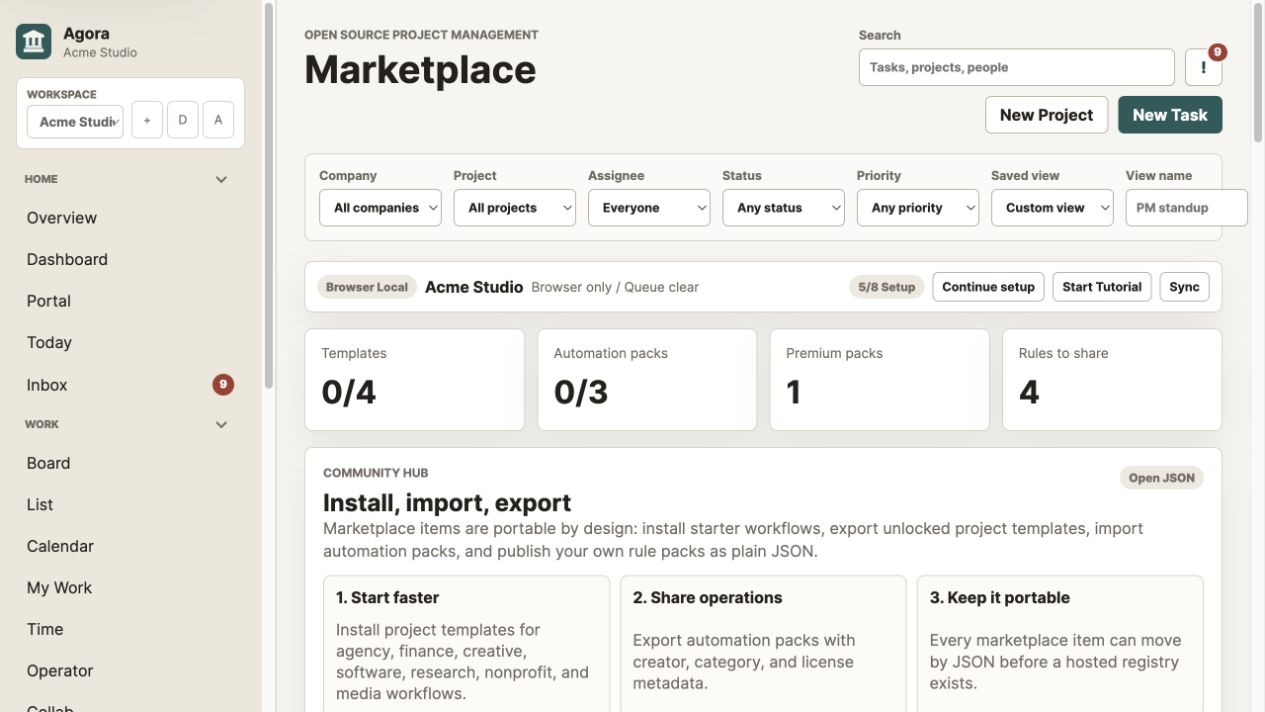
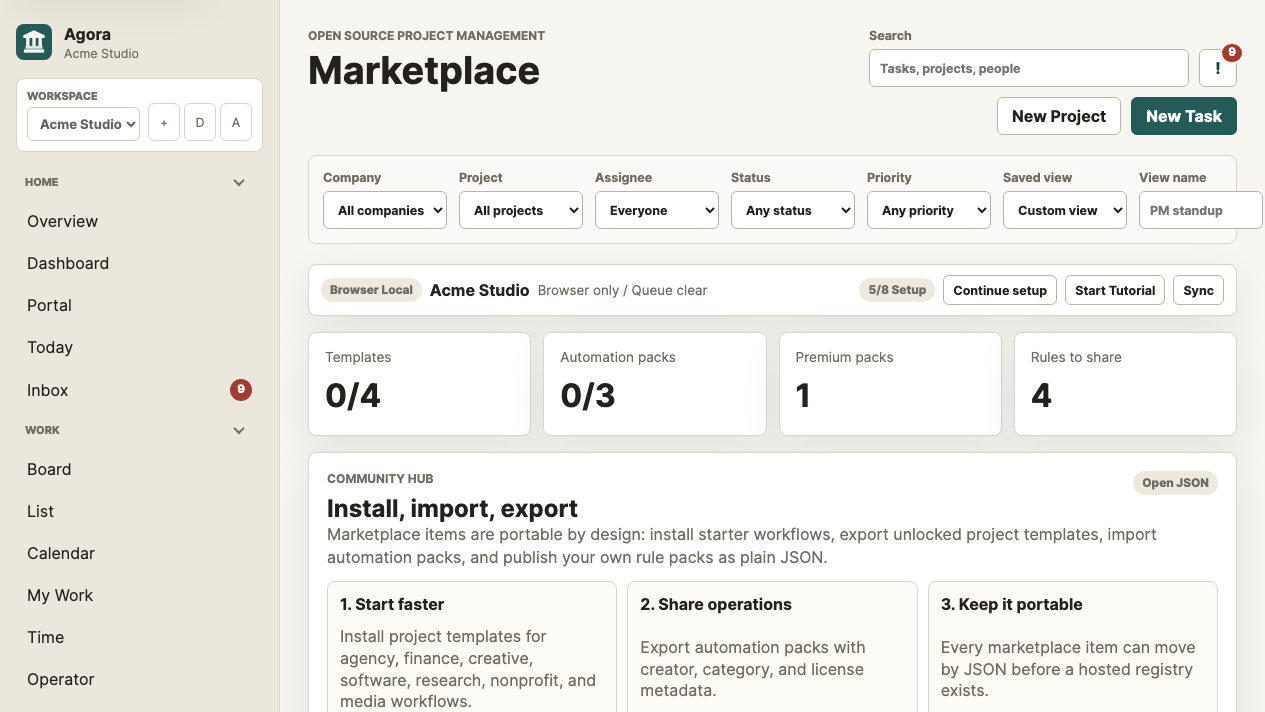
Add screenshot capture automation

diff --git a/scripts/capture-screenshots.js b/scripts/capture-screenshots.js
@@ -1,0 +1,278 @@
+const fs = require("node:fs");
+const http = require("node:http");
+const net = require("node:net");
+const path = require("node:path");
+const { spawn } = require("node:child_process");
+
+const ROOT = path.resolve(__dirname, "..");
+const OUT_DIR = path.join(ROOT, "assets", "screenshots");
+const START_PORT = Number(process.env.AGORA_SCREENSHOT_PORT || 5199);
+const HOST = process.env.AGORA_SCREENSHOT_HOST || "127.0.0.1";
+const BASE_URL = process.env.AGORA_SCREENSHOT_BASE_URL || "";
+const CHROME_TIMEOUT_MS = Number(process.env.AGORA_SCREENSHOT_TIMEOUT_MS || 30000);
+const ROUTE_WAIT_MS = Number(process.env.AGORA_SCREENSHOT_WAIT_MS || 5000);
+
+const captures = [
+  { route: "landing", file: "agora-landing.png", width: 1265, height: 712 },
+  { route: "dashboard", file: "agora-dashboard.png", width: 1265, height: 712 },
+  { route: "board", file: "agora-board.png", width: 1265, height: 712 },
+  { route: "inbox", file: "agora-inbox.png", width: 1265, height: 712 },
+  { route: "marketplace", file: "agora-marketplace.png", width: 1265, height: 712 },
+  { route: "daily", file: "agora-mobile-today.png", width: 500, height: 844 }
+];
+
+main().catch((error) => {
+  console.error(error.message || error);
+  process.exitCode = 1;
+});
+
+async function main() {
+  fs.mkdirSync(OUT_DIR, { recursive: true });
+
+  const chromePath = findChrome();
+  const server = BASE_URL
+    ? { baseUrl: trimTrailingSlash(BASE_URL), stop: async () => {} }
+    : await startStaticServer();
+
+  const written = [];
+
+  try {
+    for (const capture of captures) {
+      const url = `${server.baseUrl}/?route=${encodeURIComponent(capture.route)}&screenshot=${Date.now()}`;
+      const dom = await runChrome(chromePath, [
+        "--headless=new",
+        "--disable-gpu",
+        "--force-device-scale-factor=1",
+        "--high-dpi-support=1",
+        "--no-first-run",
+        "--no-default-browser-check",
+        "--disable-extensions",
+        "--disable-background-networking",
+        "--hide-scrollbars",
+        "--run-all-compositor-stages-before-draw",
+        `--window-size=${capture.width},${capture.height}`,
+        `--virtual-time-budget=${ROUTE_WAIT_MS}`,
+        "--dump-dom",
+        url
+      ]);
+      assertRouteRendered(capture, dom);
+
+      const outputPath = path.join(OUT_DIR, capture.file);
+      await runChrome(chromePath, [
+        "--headless=new",
+        "--disable-gpu",
+        "--force-device-scale-factor=1",
+        "--high-dpi-support=1",
+        "--no-first-run",
+        "--no-default-browser-check",
+        "--disable-extensions",
+        "--disable-background-networking",
+        "--hide-scrollbars",
+        "--run-all-compositor-stages-before-draw",
+        `--window-size=${capture.width},${capture.height}`,
+        `--virtual-time-budget=${ROUTE_WAIT_MS}`,
+        `--screenshot=${outputPath}`,
+        url
+      ]);
+
+      const size = fs.statSync(outputPath).size;
+      if (size < 1000) {
+        throw new Error(`Screenshot ${capture.file} looks empty (${size} bytes)`);
+      }
+      written.push(outputPath);
+      console.log(`Captured ${capture.file} from ${capture.route} (${capture.width}x${capture.height})`);
+    }
+  } finally {
+    await server.stop();
+  }
+
+  console.log("");
+  console.log("Updated screenshots:");
+  written.forEach((file) => console.log(`- ${path.relative(ROOT, file)}`));
+}
+
+function assertRouteRendered(capture, dom) {
+  const normalized = String(dom || "").toLowerCase();
+  if (!normalized.includes("data-agora-boot=\"ready\"")) {
+    throw new Error(`Route ${capture.route} did not finish booting`);
+  }
+  if (normalized.includes("could not render") || normalized.includes("view error")) {
+    throw new Error(`Route ${capture.route} rendered an error state`);
+  }
+  if (!normalized.includes(`>${routeTitle(capture.route).toLowerCase()}<`)) {
+    throw new Error(`Route ${capture.route} did not render the expected title`);
+  }
+}
+
+function routeTitle(route) {
+  const titles = {
+    daily: "Today",
+    landing: "Agora"
+  };
+  return titles[route] || route.charAt(0).toUpperCase() + route.slice(1);
+}
+
+async function startStaticServer() {
+  const port = await findOpenPort(START_PORT);
+  const child = spawn(process.execPath, [path.join(ROOT, "server", "static.js")], {
+    cwd: ROOT,
+    env: {
+      ...process.env,
+      AGORA_APP_HOST: HOST,
+      AGORA_APP_PORT: String(port)
+    },
+    stdio: ["ignore", "pipe", "pipe"]
+  });
+
+  let logs = "";
+  child.stdout.on("data", (chunk) => {
+    logs += chunk.toString();
+  });
+  child.stderr.on("data", (chunk) => {
+    logs += chunk.toString();
+  });
+
+  const baseUrl = `http://${HOST}:${port}`;
+  await waitForServer(baseUrl, child, () => logs);
+  return {
+    baseUrl,
+    stop: async () => {
+      if (child.exitCode !== null) return;
+      child.kill("SIGTERM");
+      await new Promise((resolve) => {
+        const timer = setTimeout(resolve, 1500);
+        child.once("exit", () => {
+          clearTimeout(timer);
+          resolve();
+        });
+      });
+      if (child.exitCode === null) child.kill("SIGKILL");
+    }
+  };
+}
+
+function findChrome() {
+  const candidates = [
+    process.env.CHROME_BIN,
+    process.env.CHROME_PATH,
+    "/Applications/Google Chrome.app/Contents/MacOS/Google Chrome",
+    "/Applications/Chromium.app/Contents/MacOS/Chromium",
+    "/Applications/Microsoft Edge.app/Contents/MacOS/Microsoft Edge",
+    "/usr/bin/google-chrome",
+    "/usr/bin/google-chrome-stable",
+    "/usr/bin/chromium",
+    "/usr/bin/chromium-browser"
+  ].filter(Boolean);
+
+  const found = candidates.find((candidate) => {
+    try {
+      fs.accessSync(candidate, fs.constants.X_OK);
+      return true;
+    } catch {
+      return false;
+    }
+  });
+
+  if (!found) {
+    throw new Error("Chrome or Chromium was not found. Set CHROME_BIN to a local Chrome-compatible binary.");
+  }
+
+  return found;
+}
+
+function findOpenPort(startPort) {
+  return new Promise((resolve, reject) => {
+    let port = startPort;
+    const tryPort = () => {
+      const probe = net.createServer();
+      probe.once("error", (error) => {
+        if (error.code === "EADDRINUSE") {
+          port += 1;
+          tryPort();
+          return;
+        }
+        reject(error);
+      });
+      probe.once("listening", () => {
+        probe.close(() => resolve(port));
+      });
+      probe.listen(port, HOST);
+    };
+    tryPort();
+  });
+}
+
+function waitForServer(baseUrl, child, logsForError) {
+  const deadline = Date.now() + 10000;
+  return new Promise((resolve, reject) => {
+    const check = () => {
+      if (child.exitCode !== null) {
+        reject(new Error(`Screenshot server exited early:\n${logsForError()}`));
+        return;
+      }
+      requestUrl(baseUrl).then(resolve).catch((error) => {
+        if (Date.now() > deadline) {
+          reject(new Error(`Timed out waiting for ${baseUrl}: ${error.message}\n${logsForError()}`));
+          return;
+        }
+        setTimeout(check, 150);
+      });
+    };
+    check();
+  });
+}
+
+function requestUrl(url) {
+  return new Promise((resolve, reject) => {
+    const request = http.get(url, (response) => {
+      response.resume();
+      response.on("end", () => {
+        if (response.statusCode && response.statusCode >= 200 && response.statusCode < 500) resolve();
+        else reject(new Error(`HTTP ${response.statusCode}`));
+      });
+    });
+    request.on("error", reject);
+    request.setTimeout(2000, () => {
+      request.destroy(new Error("request timed out"));
+    });
+  });
+}
+
+function runChrome(chromePath, args) {
+  return new Promise((resolve, reject) => {
+    const child = spawn(chromePath, args, {
+      cwd: ROOT,
+      env: process.env,
+      stdio: ["ignore", "pipe", "pipe"]
+    });
+    let stdout = "";
+    let stderr = "";
+    const timer = setTimeout(() => {
+      child.kill("SIGKILL");
+      reject(new Error(`Chrome timed out after ${CHROME_TIMEOUT_MS}ms`));
+    }, CHROME_TIMEOUT_MS);
+
+    child.stdout.on("data", (chunk) => {
+      stdout += chunk.toString();
+    });
+    child.stderr.on("data", (chunk) => {
+      stderr += chunk.toString();
+    });
+    child.once("error", (error) => {
+      clearTimeout(timer);
+      reject(error);
+    });
+    child.once("exit", (code) => {
+      clearTimeout(timer);
+      if (code === 0) {
+        resolve(stdout);
+        return;
+      }
+      reject(new Error(`Chrome exited with code ${code}\n${stderr.trim()}`));
+    });
+  });
+}
+
+function trimTrailingSlash(value) {
+  return String(value || "").replace(/\/+$/, "");
+}

diff --git a/docs/screenshot-demo-plan.md b/docs/screenshot-demo-plan.md
@@ -11,14 +11,32 @@ Use this plan to create consistent launch assets for GitHub, Product Hunt, socia
 
 ## Capture Setup
 
-- Start the app with `npm run dev`.
+- Run `npm run screenshots` to refresh the checked-in launch set.
+- The script starts the app automatically on an open port near `5199`, unless `AGORA_SCREENSHOT_BASE_URL` points at an already-running app.
 - Start the API with `npm run dev:api` when capturing sync, marketplace, permissions, or backend health.
 - Use the seeded Acme Studio workspace unless a specific clean workspace is needed.
 - Use stable route query URLs such as `http://127.0.0.1:5174/?route=dashboard` instead of hash links.
 - Use a desktop viewport around `1440 x 1000`.
-- Also capture mobile widths around `390 x 844` and tablet widths around `834 x 1194`.
+- The automated Today capture uses a `500 x 844` Chrome headless viewport so controls are not cropped by Chrome CLI's minimum layout width.
+- For exact device QA, also inspect mobile widths around `390 x 844` and tablet widths around `834 x 1194` in the browser.
 - Hide browser chrome if creating marketing screenshots.
 - Keep the sidebar visible for desktop captures unless the screen is about mobile navigation.
+
+The automation uses a local Chrome/Chromium binary. If Chrome is not in a standard location, set:
+
+```sh
+CHROME_BIN=/path/to/chrome npm run screenshots
+```
+
+Useful overrides:
+
+```sh
+AGORA_SCREENSHOT_BASE_URL=http://127.0.0.1:5174 npm run screenshots
+AGORA_SCREENSHOT_PORT=5199 npm run screenshots
+AGORA_SCREENSHOT_WAIT_MS=7000 npm run screenshots
+```
+
+The script fails if a route does not boot, renders "could not render", or writes an unexpectedly small screenshot.
 
 ## Current Launch Set
 

diff --git a/ROADMAP.md b/ROADMAP.md
@@ -31,6 +31,7 @@ Agora currently includes:
 These are the highest-priority areas before a broader public launch.
 
 - Record and publish the demo video using the captured screenshot set, launch kit, and time-coded script.
+- Keep screenshot automation current as launch routes and responsive captures change.
 - Keep tightening landing-page proof around no ads, self-hosting, portable exports, client work, and auditable AI.
 - Keep README scanning sharp with refreshed screenshots, quick feature blocks, and a clear "who this is for" section.
 - Keep local setup boring: `cp .env.example .env`, `npm run dev`, `npm run dev:api`, `npm run check`, `npm run test:api`.
@@ -46,7 +47,7 @@ These make Agora more credible for real teams and contributors.
 - Add richer onboarding for first owner setup, Supabase connection, and first project creation.
 - Build contributor-friendly starter issues for templates, automations, integrations, docs, accessibility, and mobile polish.
 - Add a public comparison page or doc for Asana, Nifty, ClickUp, monday, Notion, Linear, and open source alternatives.
-- Add screenshot automation or a repeatable capture script once the local browser flow is stable.
+- Expand screenshot automation to cover portal, data export, permissions, Operator, and tablet views.
 - Strengthen API persistence around conflict handling, record-level sync, and migration safety.
 - Expand accessibility verification across keyboard-only use, focus states, color contrast, reduced motion, and screen reader landmarks.
 - Improve mobile and tablet flows for Today, Board, Inbox, Marketplace, and Settings.

diff --git a/README.md b/README.md
@@ -102,6 +102,7 @@ npm run check     # syntax-check app and server files
 npm run test:api  # run the dependency-free API smoke test
 npm run test:fixtures # validate portable workspace and automation pack fixtures
 npm run test:supabase # verify a real Supabase project end to end
+npm run screenshots # refresh launch screenshots with local Chrome/Chromium
 ```
 
 To use different local ports, set `AGORA_APP_PORT` or `AGORA_API_PORT` in `.env`. Add browser origins to `AGORA_ALLOWED_ORIGINS` when hosting the app somewhere other than localhost.

diff --git a/docs/launch-kit.md b/docs/launch-kit.md
@@ -179,6 +179,12 @@ npm run dev:api
 
 ## Screenshot Checklist
 
+Refresh the checked-in launch set with:
+
+```sh
+npm run screenshots
+```
+
 - Landing hero with no ads/no lock-in proof row.
 - Dashboard setup and launch readiness.
 - Board view with project tasks.
